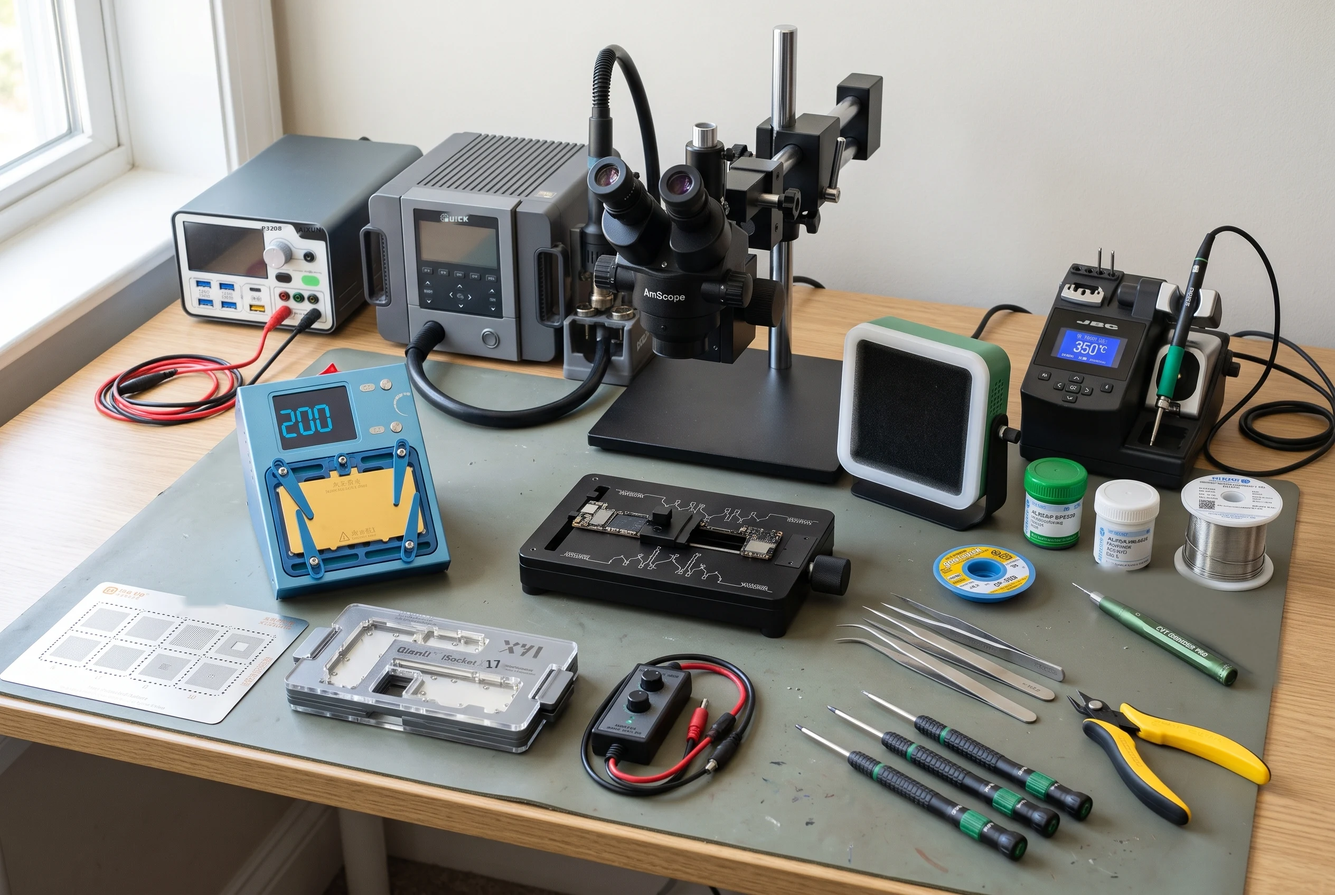
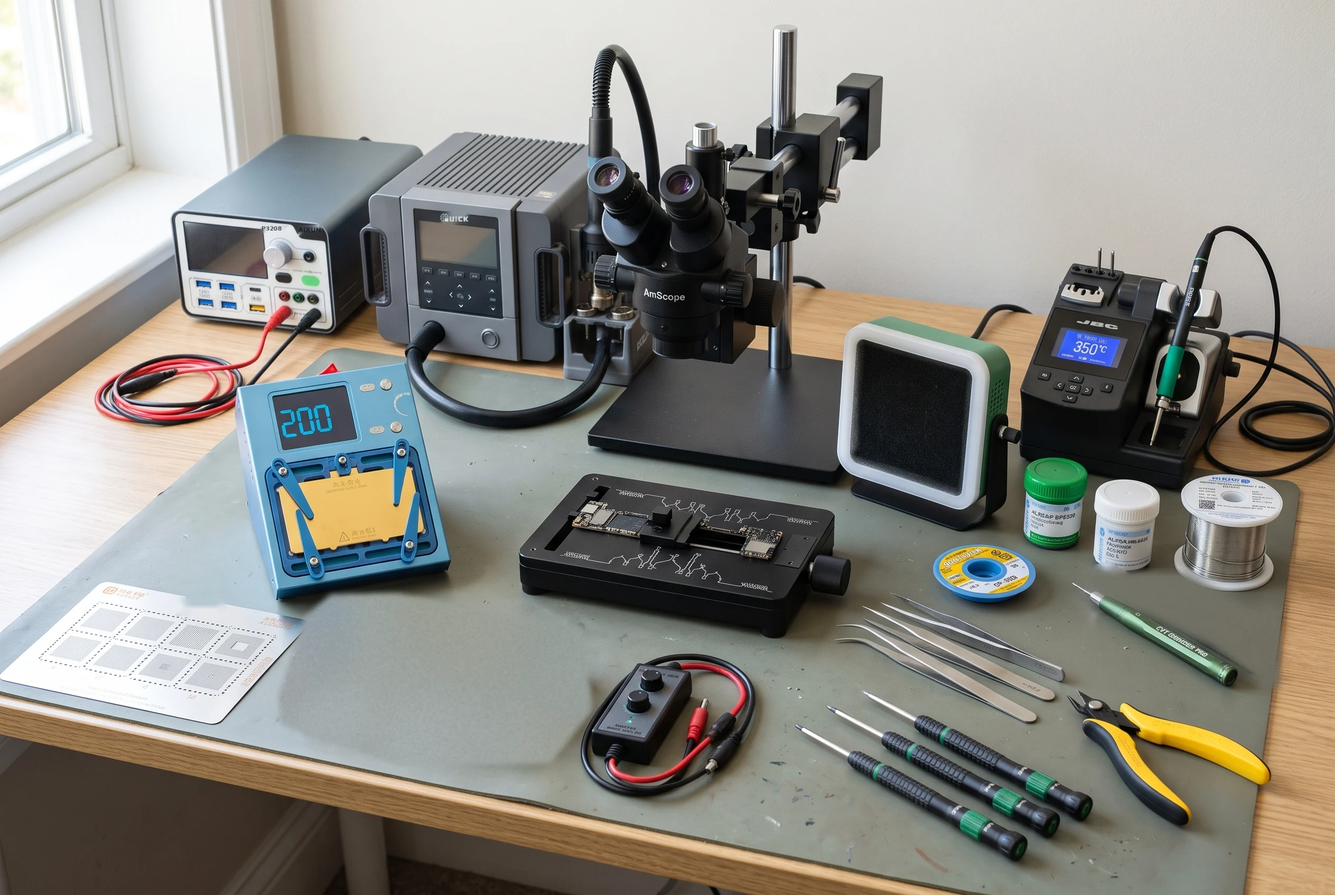
Tezgah seti: tester kaldırıldı [uretme]
Claude-Session: https://claude.ai/code/session_011syV1jpTbtRYWtexh2RumF

Changed region(s): [[0.1875, 0.6562, 0.4688, 0.875]]

diff --git a/tools/tezgah-set/onizleme/index.html b/tools/tezgah-set/onizleme/index.html
@@ -129,7 +129,7 @@ body.full .tag small{font-size:7.5px}body.full .tag b{font-size:10px}
 <div id="vUrun" class="view hide"><div class="grid" id="grid"></div><p class="note" style="margin:12px 4px">Fotoğraflar sitedeki ürün kapakları.</p></div>
 </main>
 <div class="bar"><div class="t"><small id="bc"></small><b id="bt"></b></div><button id="badd">Hepsini sepete ekle</button></div>
-<div class="dim" id="dim"></div><div class="sheet" id="sheet"></div><div class="toast" id="toast"></div><script>const IW=2528,IH=1696;const P=[{"k": "guc", "ad": "Güç kaynağı", "kisa": "AiXun P3208", "x": 520, "y": 330, "z": [320, 250, 800, 620], "u": [{"id": 1916, "n": "Aixun P3208 320W / 32V / 8A Power Supply", "r": 170}]}, {"k": "sicak", "ad": "Sıcak hava", "kisa": "Quick 861 Pro Max", "x": 880, "y": 330, "z": [690, 250, 1120, 680], "u": [{"id": 3066, "n": "Quick 861 Pro Max Sesli Komutlu Sıcak Hava İstasyonu (1300W)", "r": 330}]}, {"k": "mikro", "ad": "Mikroskop", "kisa": "AmScope SM-4NTP", "x": 1330, "y": 250, "z": [1110, 40, 1660, 860], "u": [{"id": 30, "n": "AmScope SM-4NTP Siyah Full Mikroskop", "r": 770}]}, {"k": "havya", "ad": "Havya", "kisa": "JBC CD-2SQF", "x": 2060, "y": 520, "z": [1930, 480, 2340, 880], "u": [{"id": 835, "n": "JBC İstasyonlu Havya (Yeni Model) (130W) (2 adet orijinal uç fiyata dahildir.) (2 YIL GARANTİ)", "r": 530}]}, {"k": "fan", "ad": "Duman emici", "kisa": "2UUL Aiolos", "x": 1730, "y": 640, "z": [1590, 600, 1910, 1000], "u": [{"id": 2242, "n": "2UUL DA98 Aiolos Duman Emici Fan", "r": 24}]}, {"k": "isitici", "ad": "Bord ısıtıcı", "kisa": "AiXun iHeater Pro", "x": 650, "y": 720, "z": [440, 690, 860, 1140], "u": [{"id": 2455, "n": "Aixun iHeater Pro Bord Isıtıcı (iPhone X-17PM)(17 serisi için Air modeli dahildir.)", "r": 320}]}, {"k": "tutucu", "ad": "Bord tutucu", "kisa": "2UUL BH08", "x": 1280, "y": 930, "z": [980, 890, 1610, 1200], "u": [{"id": 2037, "n": "2UUL BH08 Bord Tutucu", "r": 23}]}, {"k": "kalip", "ad": "Kalıplar", "kisa": "Amaoe", "x": 300, "y": 1130, "z": [10, 1100, 590, 1380], "u": [{"id": 2422, "n": "Amaoe iPhone 17/17Pro/17Promax/Air Entegre Kalıbı (A19/A19Pro)", "r": 6}, {"id": 2003, "n": "Amaoe iPhone 16/16Plus/16Pro/16Promax Entegre Kalıbı (A18/A18Pro)", "r": 6}, {"id": 3090, "n": "Amaoe SM6850 İşlemci Kalıbı", "r": 6}]}, {"k": "test", "ad": "Test cihazı", "kisa": "iSocket X–17", "x": 820, "y": 1170, "z": [540, 1150, 1100, 1430], "u": [{"id": 593, "n": "Qianli iSocket X / XS / XSMAX Tester", "r": 140}, {"id": 844, "n": "Qianli iSocket 4in1 12 / 12mini / 12pro / 12promax Tester", "r": 180}, {"id": 1319, "n": "Qianli iSocket 4in1 14 / 14Plus / 14Pro / 14Promax", "r": 200}, {"id": 1714, "n": "Qianli iSocket 4 in1 15 / 15Plus / 15Pro / 15Promax Tester eSIM US Version", "r": 200}, {"id": 2068, "n": "Qianli iSocket iPhone 16/Plus/Pro/Pro Max Bord Tester", "r": 225}, {"id": 2498, "n": "Qianli İsocket 17/17Air/17Pro/17Promax Tester", "r": 250}]}, {"k": "boot", "ad": "Boot kablosu", "kisa": "Power Pro Max 2.0", "x": 1270, "y": 1260, "z": [1100, 1240, 1430, 1510], "u": [{"id": 3062, "n": "Mechanic Power Pro Max 2.0 (iPhone X-17PM Arası modelleri destekler.)", "r": 47}]}, {"k": "sivi", "ad": "Sıvı lehim", "kisa": "Alpha 138° · 183°", "x": 2060, "y": 880, "z": [1930, 860, 2210, 1090], "u": [{"id": 51, "n": "ALPHA 138 Derece Sıvı Lehim (50gr)", "r": 13}, {"id": 79, "n": "ALPHA 183 Derece Sıvı Lehim (50gr)", "r": 10}]}, {"k": "tel", "ad": "Lehim teli", "kisa": "Alpha 0.3 mm", "x": 2330, "y": 900, "z": [2220, 890, 2420, 1120], "u": [{"id": 492, "n": "ALPHA 0.3mm 100gr Lehim Teli", "r": 19}]}, {"k": "wick", "ad": "Lehim çekme teli", "kisa": "Goot Wick CP-20B", "x": 1860, "y": 1035, "z": [1760, 1020, 1960, 1140], "u": [{"id": 126, "n": "Gootwick CP-20B Lehim Çekme Teli (30m / 2.0mm)", "r": 27}]}, {"k": "cimbiz", "ad": "Cımbızlar", "kisa": "4 adet", "x": 1780, "y": 1140, "z": [1580, 1120, 2010, 1380], "u": [{"id": 1790, "n": "2UUL Ti21 Entegre Cımbızı (Düz)", "r": 11}, {"id": 2978, "n": "JC SW-01 Cımbız", "r": 5}, {"id": 2709, "n": "Luban 3D-3 Cımbız", "r": 10}, {"id": 3056, "n": "Mijing TCN-02 Seramik Uçlu Eğri Cımbız", "r": 10}]}, {"k": "dramel", "ad": "Dramel", "kisa": "2UUL CVT Grinder Pro", "x": 2190, "y": 1110, "z": [2030, 1100, 2350, 1310], "u": [{"id": 2464, "n": "2UUL DA85 CVT Grinder Pro Dramel", "r": 39}]}, {"k": "keski", "ad": "Yan keski", "kisa": "Piergiacomi", "x": 2230, "y": 1320, "z": [2020, 1300, 2410, 1560], "u": [{"id": 402, "n": "Piergiacomi TRE-03-NB Yan Keski", "r": 10}]}, {"k": "tornavida", "ad": "Tornavida seti", "kisa": "2UUL KaKa", "x": 1800, "y": 1330, "z": [1500, 1310, 2080, 1630], "u": [{"id": 2246, "n": "2UUL SD20 KaKa Torklu Tornavida Seti (Pentalobe 0.8mm / Philips 1.2mm ve 1.5mm / Tri-point 0.6mm)", "r": 42}]}];
+<div class="dim" id="dim"></div><div class="sheet" id="sheet"></div><div class="toast" id="toast"></div><script>const IW=2528,IH=1696;const P=[{"k": "guc", "ad": "Güç kaynağı", "kisa": "AiXun P3208", "x": 520, "y": 330, "z": [320, 250, 800, 620], "u": [{"id": 1916, "n": "Aixun P3208 320W / 32V / 8A Power Supply", "r": 170}]}, {"k": "sicak", "ad": "Sıcak hava", "kisa": "Quick 861 Pro Max", "x": 880, "y": 330, "z": [690, 250, 1120, 680], "u": [{"id": 3066, "n": "Quick 861 Pro Max Sesli Komutlu Sıcak Hava İstasyonu (1300W)", "r": 330}]}, {"k": "mikro", "ad": "Mikroskop", "kisa": "AmScope SM-4NTP", "x": 1330, "y": 250, "z": [1110, 40, 1660, 860], "u": [{"id": 30, "n": "AmScope SM-4NTP Siyah Full Mikroskop", "r": 770}]}, {"k": "havya", "ad": "Havya", "kisa": "JBC CD-2SQF", "x": 2060, "y": 520, "z": [1930, 480, 2340, 880], "u": [{"id": 835, "n": "JBC İstasyonlu Havya (Yeni Model) (130W) (2 adet orijinal uç fiyata dahildir.) (2 YIL GARANTİ)", "r": 530}]}, {"k": "fan", "ad": "Duman emici", "kisa": "2UUL Aiolos", "x": 1730, "y": 640, "z": [1590, 600, 1910, 1000], "u": [{"id": 2242, "n": "2UUL DA98 Aiolos Duman Emici Fan", "r": 24}]}, {"k": "isitici", "ad": "Bord ısıtıcı", "kisa": "AiXun iHeater Pro", "x": 650, "y": 720, "z": [440, 690, 860, 1140], "u": [{"id": 2455, "n": "Aixun iHeater Pro Bord Isıtıcı (iPhone X-17PM)(17 serisi için Air modeli dahildir.)", "r": 320}]}, {"k": "tutucu", "ad": "Bord tutucu", "kisa": "2UUL BH08", "x": 1280, "y": 930, "z": [980, 890, 1610, 1200], "u": [{"id": 2037, "n": "2UUL BH08 Bord Tutucu", "r": 23}]}, {"k": "kalip", "ad": "Kalıplar", "kisa": "Amaoe", "x": 300, "y": 1130, "z": [10, 1100, 590, 1380], "u": [{"id": 2422, "n": "Amaoe iPhone 17/17Pro/17Promax/Air Entegre Kalıbı (A19/A19Pro)", "r": 6}, {"id": 2003, "n": "Amaoe iPhone 16/16Plus/16Pro/16Promax Entegre Kalıbı (A18/A18Pro)", "r": 6}, {"id": 3090, "n": "Amaoe SM6850 İşlemci Kalıbı", "r": 6}]}, {"k": "boot", "ad": "Boot kablosu", "kisa": "Power Pro Max 2.0", "x": 1270, "y": 1260, "z": [1100, 1240, 1430, 1510], "u": [{"id": 3062, "n": "Mechanic Power Pro Max 2.0 (iPhone X-17PM Arası modelleri destekler.)", "r": 47}]}, {"k": "sivi", "ad": "Sıvı lehim", "kisa": "Alpha 138° · 183°", "x": 2060, "y": 880, "z": [1930, 860, 2210, 1090], "u": [{"id": 51, "n": "ALPHA 138 Derece Sıvı Lehim (50gr)", "r": 13}, {"id": 79, "n": "ALPHA 183 Derece Sıvı Lehim (50gr)", "r": 10}]}, {"k": "tel", "ad": "Lehim teli", "kisa": "Alpha 0.3 mm", "x": 2330, "y": 900, "z": [2220, 890, 2420, 1120], "u": [{"id": 492, "n": "ALPHA 0.3mm 100gr Lehim Teli", "r": 19}]}, {"k": "wick", "ad": "Lehim çekme teli", "kisa": "Goot Wick CP-20B", "x": 1860, "y": 1035, "z": [1760, 1020, 1960, 1140], "u": [{"id": 126, "n": "Gootwick CP-20B Lehim Çekme Teli (30m / 2.0mm)", "r": 27}]}, {"k": "cimbiz", "ad": "Cımbızlar", "kisa": "4 adet", "x": 1780, "y": 1140, "z": [1580, 1120, 2010, 1380], "u": [{"id": 1790, "n": "2UUL Ti21 Entegre Cımbızı (Düz)", "r": 11}, {"id": 2978, "n": "JC SW-01 Cımbız", "r": 5}, {"id": 2709, "n": "Luban 3D-3 Cımbız", "r": 10}, {"id": 3056, "n": "Mijing TCN-02 Seramik Uçlu Eğri Cımbız", "r": 10}]}, {"k": "dramel", "ad": "Dramel", "kisa": "2UUL CVT Grinder Pro", "x": 2190, "y": 1110, "z": [2030, 1100, 2350, 1310], "u": [{"id": 2464, "n": "2UUL DA85 CVT Grinder Pro Dramel", "r": 39}]}, {"k": "keski", "ad": "Yan keski", "kisa": "Piergiacomi", "x": 2230, "y": 1320, "z": [2020, 1300, 2410, 1560], "u": [{"id": 402, "n": "Piergiacomi TRE-03-NB Yan Keski", "r": 10}]}, {"k": "tornavida", "ad": "Tornavida seti", "kisa": "2UUL KaKa", "x": 1800, "y": 1330, "z": [1500, 1310, 2080, 1630], "u": [{"id": 2246, "n": "2UUL SD20 KaKa Torklu Tornavida Seti (Pentalobe 0.8mm / Philips 1.2mm ve 1.5mm / Tri-point 0.6mm)", "r": 42}]}];
 const $=id=>document.getElementById(id), usd=v=>'$'+(Math.round(v*100)/100).toLocaleString('tr-TR');
 const W=IW,H=IH, img=id=>'u/'+id+'.webp', ALL=P.flatMap(p=>p.u);
 const vp=$('vp'),st=$('st'),ov=$('ov'),stage=$('stage');st.style.width=W+'px';st.style.height=H+'px';
